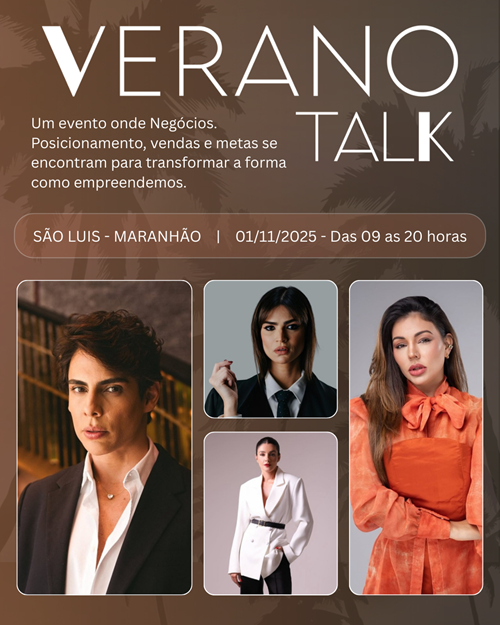
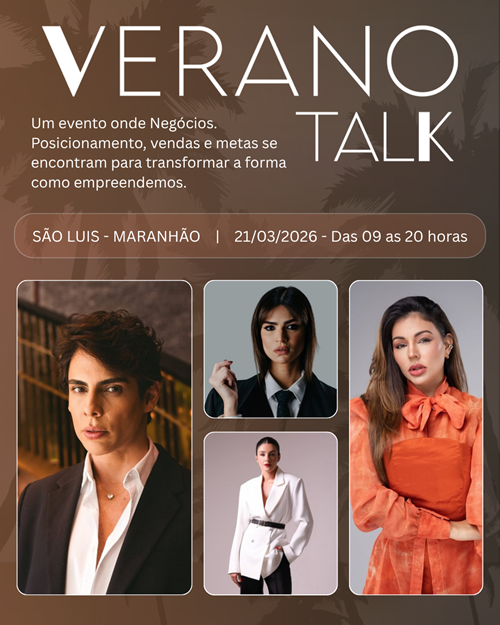
att date in html e fly

Changed region(s): [[0.06, 0.3648, 0.57, 0.3952], [0.66, 0.3648, 0.93, 0.3952], [0.6, 0.3648, 0.63, 0.3952]]

diff --git a/index.html b/index.html
@@ -7,16 +7,16 @@
 
     <!-- Primary Meta Tags -->
     <title>
-      Verano Talk 2025 | Evento de Vendas, Empreendedorismo e Metas em São Luís
+      Verano Talk 2026 | Evento de Vendas, Empreendedorismo e Metas em São Luís
       - MA
     </title>
     <meta
       name="title"
-      content="Verano Talk 2025 | Evento de Metas, Vendas e Empreendedorismo em São Luís"
+      content="Verano Talk 2026 | Evento de Metas, Vendas e Empreendedorismo em São Luís"
     />
     <meta
       name="description"
-      content="Participe do Verano Talk 2025 em São Luís - evento que une Metas, vendas, posicionamento e inovação para transformar seu negócio. 16/10/2025 - Das 09h às 21h."
+      content="Participe do Verano Talk 2026 em São Luís - evento que une Metas, vendas, posicionamento e inovação para transformar seu negócio. 16/10/2026 - Das 09h às 21h."
     />
     <meta
       name="keywords"
@@ -28,11 +28,11 @@
     <meta property="og:url" content="https://www.veranotalk.com.br/" />
     <meta
       property="og:title"
-      content="Verano Talk 2025 | Evento de Metas, Vendas e Empreendedorismo em São Luís"
+      content="Verano Talk 2026 | Evento de Metas, Vendas e Empreendedorismo em São Luís"
     />
     <meta
       property="og:description"
-      content="Participe do Verano Talk 2025 em São Luís - evento que une Metas, vendas, posicionamento e inovação para transformar seu negócio."
+      content="Participe do Verano Talk 2026 em São Luís - evento que une Metas, vendas, posicionamento e inovação para transformar seu negócio."
     />
     <meta
       property="og:image"
@@ -47,11 +47,11 @@
     <meta property="twitter:url" content="https://www.veranotalk.com.br/" />
     <meta
       property="twitter:title"
-      content="Verano Talk 2025 | Evento de Metas, Vendas e Empreendedorismo em São Luís"
+      content="Verano Talk 2026 | Evento de Metas, Vendas e Empreendedorismo em São Luís"
     />
     <meta
       property="twitter:description"
-      content="Participe do Verano Talk 2025 em São Luís - evento que une Metas, vendas, posicionamento e inovação para transformar seu negócio."
+      content="Participe do Verano Talk 2026 em São Luís - evento que une Metas, vendas, posicionamento e inovação para transformar seu negócio."
     />
     <meta
       property="twitter:image"
@@ -70,10 +70,10 @@
       {
         "@context": "https://schema.org",
         "@type": "Event",
-        "name": "Verano Talk 2025",
+        "name": "Verano Talk 2026",
         "description": "Evento onde Metas, vendas, posicionamento e inovação se encontram para transformar a forma como empreendemos.",
-        "startDate": "2025-10-16T09:00",
-        "endDate": "2025-10-16T21:00",
+        "startDate": "2026-03-21T09:00",
+        "endDate": "2026-03-21T21:00",
         "location": {
           "@type": "Place",
           "name": "São Luís - Maranhão",
